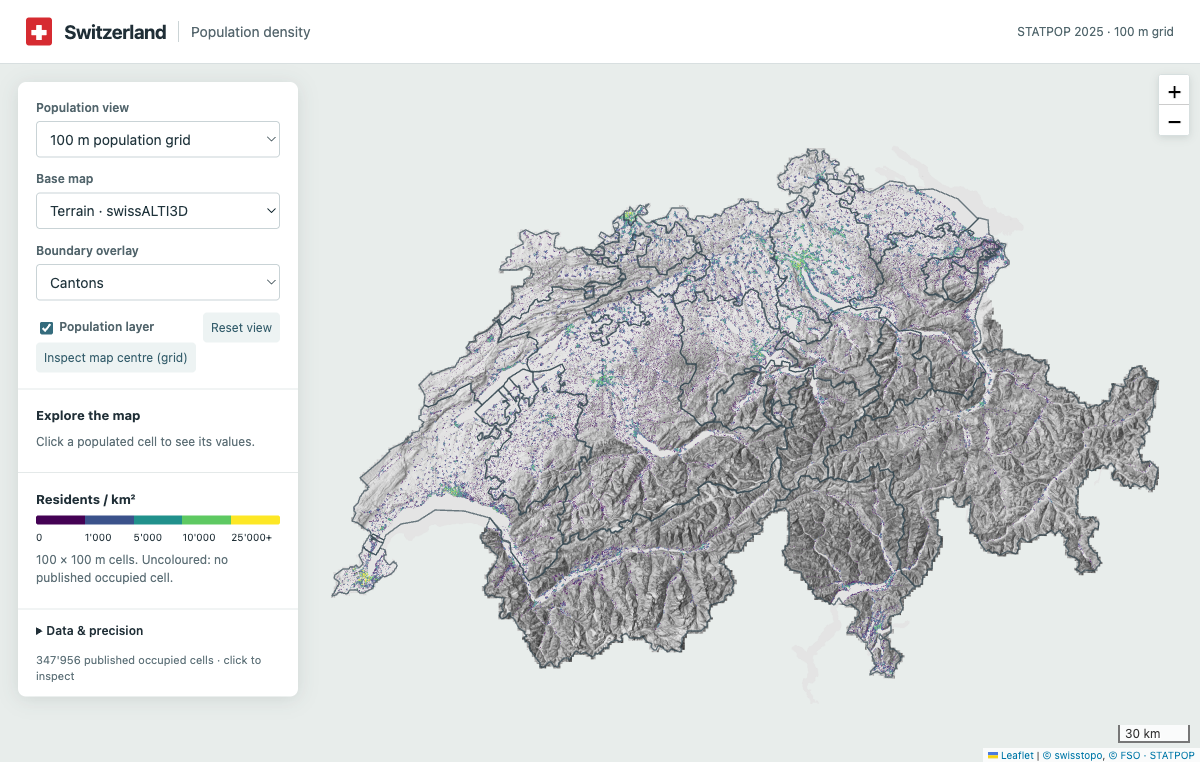
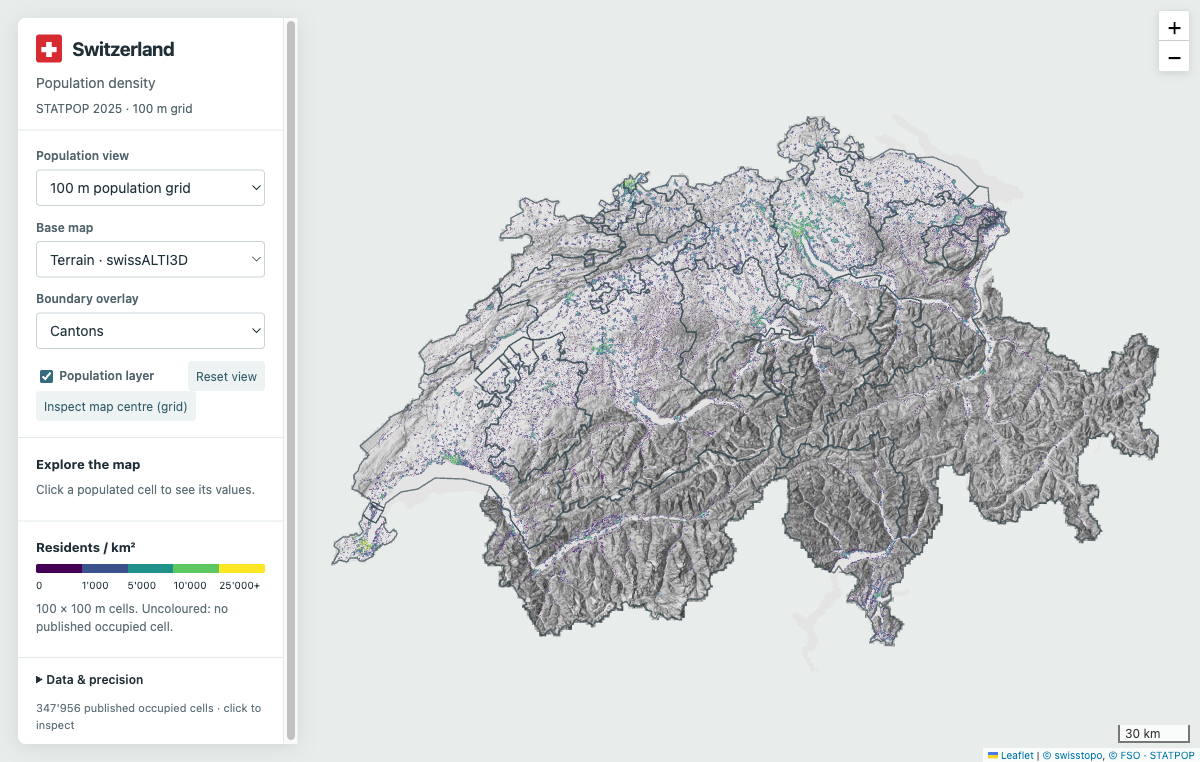
Update Site source

Changed region(s): [[0.2775, 0.1509, 0.9867, 0.9055], [0.0, 0.0, 0.2775, 0.9659], [0.8633, 0.0, 1.0, 0.1207]]

diff --git a/dist/style.css b/dist/style.css
@@ -1,1 +1,1 @@
-*{box-sizing:border-box}body{margin:0;color:#202f37;font:14px/1.5 system-ui,-apple-system,sans-serif}header{height:64px;padding:0 26px;display:flex;align-items:center;justify-content:space-between;border-bottom:1px solid #d8dfe0;background:#fff}header>div{display:flex;align-items:center;gap:12px}strong{font-size:19px;letter-spacing:-.5px}.cross{background:#d62b31;color:#fff;padding:0 5px;font-size:21px;line-height:28px;border-radius:3px}.subtitle{border-left:1px solid #cbd4d6;padding-left:12px;color:#56676e}#vintage{font-size:12px;color:#52676d}main{position:relative;height:calc(100dvh - 64px)}#map{height:100%;background:#e8edeb}aside{position:absolute;top:18px;left:18px;z-index:800;width:280px;max-height:calc(100% - 36px);overflow:auto;box-shadow:0 3px 20px #20333422;background:#fff;border-radius:8px}section{padding:16px 18px;border-bottom:1px solid #e4e9e9}label{display:block;font-size:12px;font-weight:600;color:#52656c;margin-bottom:5px}select{width:100%;padding:8px 9px;border:1px solid #c9d3d6;border-radius:4px;background:#fff;color:#20343c;font:inherit;margin-bottom:12px}.row{display:flex;align-items:center;justify-content:space-between;gap:5px}.row label{margin:0}input{accent-color:#356c7d;vertical-align:middle}button{border:0;background:#edf3f3;color:#355e6c;border-radius:4px;padding:6px 8px;cursor:pointer;font:inherit;font-size:12px}h2{font-size:13px;margin:0 0 7px}p{margin:6px 0;color:#5e7077;font-size:12px}.value{font-size:26px;font-weight:650;letter-spacing:-.8px;color:#243b43}.unit{font-size:12px;font-weight:400;letter-spacing:0}.stats{display:grid;grid-template-columns:1fr 1fr;gap:8px;margin-top:9px}.stats strong{font-size:14px;letter-spacing:0}.stats span{font-size:11px;color:#62737a;display:block}#ramp{height:9px;border-radius:2px;background:linear-gradient(to right,#440154,#3b528b,#21918c,#5ec962,#fde725)}#ticks{display:grid;grid-template-columns:repeat(5,1fr);font-size:10px;margin-top:5px}details{padding:12px 18px}summary{cursor:pointer;font-size:12px;font-weight:600}a{color:#286279}#status{padding:0 18px 12px;font-size:11px;color:#61747b}.leaflet-control-zoom{border:1px solid #d7dfdf!important;box-shadow:0 2px 8px #20333422!important}.leaflet-container{font-family:inherit}.leaflet-control-attribution{font-size:10px!important}.population-canvas{position:absolute;pointer-events:none}.leaflet-popup-content{font-size:12px}select:focus-visible,button:focus-visible,summary:focus-visible{outline:2px solid #32798b;outline-offset:2px}@media(max-width:640px){header{height:58px;padding:0 12px}header>div{gap:7px}strong{font-size:16px}.subtitle{font-size:12px;padding-left:7px}#vintage{display:none}main{height:calc(100dvh - 58px);display:flex;flex-direction:column;overflow:hidden}#map{flex:1 0 55%;height:auto;min-height:55%;width:100%;min-width:0}aside{position:static;flex:0 1 auto;width:100%;min-width:0;min-height:0;max-height:45%;overflow:auto;overflow-wrap:anywhere;border-radius:0}.row{flex-wrap:nowrap;white-space:nowrap}.row>*{flex-shrink:0}section{padding:10px 12px}select{padding:5px;margin-bottom:7px;font-size:12px}.value{font-size:23px}details{padding:9px 12px}#status{padding:0 12px 8px}.legend p{font-size:10px}}
+*{box-sizing:border-box}body{margin:0;color:#202f37;font:14px/1.5 system-ui,-apple-system,sans-serif}html,body{width:100%;height:100%;overflow:hidden}header{padding:16px 18px 12px;border-bottom:1px solid #e4e9e9;background:#fff}header>div{display:flex;align-items:center;gap:10px;flex-wrap:wrap}strong{font-size:19px;letter-spacing:-.5px}.cross{background:#d62b31;color:#fff;padding:0 5px;font-size:21px;line-height:28px;border-radius:3px}.subtitle{flex-basis:100%;color:#56676e}#vintage{display:block;margin-top:6px;font-size:12px;color:#52676d}main{position:absolute;top:0;left:0;width:100vw;height:100vh;height:100dvh;overflow:hidden}#map{position:absolute;top:0;left:0;width:100vw;height:100vh;height:100dvh;background:#e8edeb}aside{position:absolute;top:18px;left:18px;z-index:800;width:280px;max-height:calc(100% - 36px);overflow:auto;box-shadow:0 3px 20px #20333422;background:#fff;border-radius:8px}aside[hidden]{display:none}#panel-toggle{display:none}section{padding:16px 18px;border-bottom:1px solid #e4e9e9}label{display:block;font-size:12px;font-weight:600;color:#52656c;margin-bottom:5px}select{width:100%;padding:8px 9px;border:1px solid #c9d3d6;border-radius:4px;background:#fff;color:#20343c;font:inherit;margin-bottom:12px}.row{display:flex;align-items:center;justify-content:space-between;gap:5px}.row label{margin:0}input{accent-color:#356c7d;vertical-align:middle}button{border:0;background:#edf3f3;color:#355e6c;border-radius:4px;padding:6px 8px;cursor:pointer;font:inherit;font-size:12px}h2{font-size:13px;margin:0 0 7px}p{margin:6px 0;color:#5e7077;font-size:12px}.value{font-size:26px;font-weight:650;letter-spacing:-.8px;color:#243b43}.unit{font-size:12px;font-weight:400;letter-spacing:0}.stats{display:grid;grid-template-columns:1fr 1fr;gap:8px;margin-top:9px}.stats strong{font-size:14px;letter-spacing:0}.stats span{font-size:11px;color:#62737a;display:block}#ramp{height:9px;border-radius:2px;background:linear-gradient(to right,#440154,#3b528b,#21918c,#5ec962,#fde725)}#ticks{display:grid;grid-template-columns:repeat(5,1fr);font-size:10px;margin-top:5px}details{padding:12px 18px}summary{cursor:pointer;font-size:12px;font-weight:600}a{color:#286279}#status{padding:0 18px 12px;font-size:11px;color:#61747b}.leaflet-control-zoom{border:1px solid #d7dfdf!important;box-shadow:0 2px 8px #20333422!important}.leaflet-container{font-family:inherit}.leaflet-control-attribution{font-size:10px!important}.population-canvas{position:absolute;pointer-events:none}.leaflet-popup-content{font-size:12px}select:focus-visible,button:focus-visible,summary:focus-visible{outline:2px solid #32798b;outline-offset:2px}@media(max-width:640px){#panel-toggle{display:block;position:absolute;top:10px;left:10px;z-index:800;box-shadow:0 2px 8px #20333422}aside{top:52px;left:10px;width:min(280px,calc(100vw - 60px));max-height:calc(100vh - 62px);max-height:calc(100dvh - 62px);overflow:auto;overflow-wrap:anywhere}header{padding:12px}header>div{gap:7px}strong{font-size:16px}.subtitle{font-size:12px}.row{flex-wrap:wrap}section{padding:10px 12px}select{padding:5px;margin-bottom:7px;font-size:12px}.value{font-size:23px}details{padding:9px 12px}#status{padding:0 12px 8px}.legend p{font-size:10px}}

diff --git a/scripts/browser_qa.js b/scripts/browser_qa.js
@@ -3,20 +3,29 @@ async (page) => {
  const results = [];
  await page.waitForFunction(() => typeof worldCells !== 'undefined' && worldCells && document.getElementById('status').textContent.includes('published occupied cells'));
  async function clickMapCentre() {
+  const toggle=page.locator('#panel-toggle');
+  if(await toggle.isVisible() && await toggle.getAttribute('aria-expanded')==='true') await toggle.click();
   const p = await page.evaluate(() => {const b = document.getElementById('map').getBoundingClientRect(); return {x:b.x+b.width/2,y:b.y+b.height/2};});
   await page.mouse.click(p.x,p.y);
  }
- for (const size of [{width:1200,height:762},{width:390,height:844},{width:320,height:568},{width:640,height:360}]) {
+ for (const size of [{width:1200,height:762},{width:1920,height:1080},{width:390,height:844},{width:320,height:568},{width:640,height:360}]) {
   await page.setViewportSize(size);
+  await page.waitForFunction(()=>map.getSize().x===innerWidth && map.getSize().y===innerHeight);
   await page.locator('#reset').click();
-  await page.waitForFunction(() => !map._animatingZoom);
+  await page.waitForFunction(() => map.getZoom()===map.getBoundsZoom(L.latLngBounds([[45.82,5.96],[47.81,10.49]]),false,L.point(innerWidth>640?330:40,40)) && !map._animatingZoom);
   const good = await page.evaluate(() => {
    const m = document.getElementById('map').getBoundingClientRect(),a = document.querySelector('aside').getBoundingClientRect();
    const points = [[45.82,5.96],[47.81,10.49]].map(ll => map.latLngToContainerPoint(ll));
-   return document.documentElement.scrollWidth <= innerWidth && points.every(p => p.x >= 0 && p.x <= m.width && p.y >= 0 && p.y <= m.height) && (innerWidth > 640 || a.top >= m.bottom - 1);
+   return m.x===0 && m.y===0 && m.width===innerWidth && m.height===innerHeight && map.getSize().x===innerWidth && map.getSize().y===innerHeight && Math.abs(gridLayer.canvas.width/devicePixelRatio-innerWidth)<1 && Math.abs(gridLayer.canvas.height/devicePixelRatio-innerHeight)<1 && document.documentElement.scrollWidth <= innerWidth && document.documentElement.scrollHeight <= innerHeight && getComputedStyle(document.querySelector('aside')).position==='absolute' && a.x>=0 && a.x<=20 && a.right<=innerWidth && a.bottom<=innerHeight && points.every(p => p.x >= 0 && p.x <= m.width && p.y >= 0 && p.y <= m.height);
   });
   if (!good) throw Error('Map fit/layout failed: '+JSON.stringify(size));
-  results.push({viewport:size,fit:true});
+  results.push({viewport:size,fit:true,fullViewport:true,leftFloating:true});
+  if(size.width<=640){
+   await page.locator('#panel-toggle').click();
+   if(await page.locator('#controls-panel').isVisible())throw Error('Panel did not hide');
+   await page.locator('#panel-toggle').click();
+   if(!await page.locator('#controls-panel').isVisible())throw Error('Panel did not return');
+  }
  }
  await page.setViewportSize({width:1200,height:762});
  await page.locator('#level').selectOption('grid');
@@ -99,6 +108,10 @@ async (page) => {
  await clickMapCentre();
  const revealed = await page.evaluate(() => {const s=document.getElementById('selection').getBoundingClientRect(),a=document.querySelector('aside').getBoundingClientRect();return s.top >= a.top-1 && s.bottom <= a.bottom+1;});
  if (!revealed) throw Error('Mobile selected values hidden');
- await page.setViewportSize({width:1200,height:762});await page.locator('#boundaries').selectOption('canton');await page.locator('#reset').click();
+ await page.locator('#panel-toggle').click();
+ await page.setViewportSize({width:1200,height:762});
+ await page.waitForFunction(()=>!document.getElementById('controls-panel').hidden);
+ if(await page.locator('#panel-toggle').isVisible())throw Error('Mobile toggle visible on desktop');
+ await page.locator('#boundaries').selectOption('canton');await page.locator('#reset').click();
  return {results,layerCombinations:combinations,bases:3,pointerDrag:true,keyboardPan:true,zoomButtons:true,centreInspector:true,mobileSelectionRevealed:true,tileStatus:statuses};
 }

diff --git a/dist/index.html b/dist/index.html
@@ -1,7 +1,8 @@
 <!doctype html>
-<html lang="en"><head><meta charset="utf-8"><meta name="viewport" content="width=device-width,initial-scale=1"><link rel="icon" href="data:,"><title>Switzerland · Population density</title><link rel="stylesheet" href="vendor/leaflet.css"><link rel="stylesheet" href="style.css?v=881835087f96"></head>
-<body><header><div><span class="cross">✚</span><strong>Switzerland</strong><span class="subtitle">Population density</span></div><span id="vintage">STATPOP · loading</span></header>
-<main><div id="map" role="region" aria-label="Interactive population density map of Switzerland"></div><aside>
+<html lang="en"><head><meta charset="utf-8"><meta name="viewport" content="width=device-width,initial-scale=1"><link rel="icon" href="data:,"><title>Switzerland · Population density</title><link rel="stylesheet" href="vendor/leaflet.css"><link rel="stylesheet" href="style.css?v=6f51a1fc3744"></head>
+<body>
+<main><div id="map" role="region" aria-label="Interactive population density map of Switzerland"></div><button id="panel-toggle" aria-controls="controls-panel" aria-expanded="true">Hide controls</button><aside id="controls-panel">
+<header><div><span class="cross">✚</span><strong>Switzerland</strong><span class="subtitle">Population density</span></div><span id="vintage">STATPOP · loading</span></header>
 <section class="controls"><label for="level">Population view</label><select id="level"><option value="grid">100 m population grid</option><option value="municipality">Municipalities</option><option value="district">Districts</option><option value="canton">Cantons</option></select>
 <label for="basemap">Base map</label><select id="basemap"><option value="terrain">Terrain · swissALTI3D</option><option value="topo">Topographic map</option><option value="aerial">Aerial imagery</option></select>
 <label for="boundaries">Boundary overlay</label><select id="boundaries"><option value="canton">Cantons</option><option value="district">Districts</option><option value="municipality">Municipalities</option><option value="none">None</option></select>
@@ -10,4 +11,4 @@
 <section class="legend"><h2>Residents / km²</h2><div id="ramp"></div><div id="ticks"></div><p id="legend-note">100 × 100 m cells. Uncoloured: no published occupied cell.</p></section>
 <details><summary>Data & precision</summary><p id="source-note">Loading official data…</p><p>Public hectare counts of 1–3 are grouped as 3. These cells are shown as ranges, not exact counts. Most municipality totals are official; other regional grid sums are estimates, not official administrative totals.</p><p><a href="https://statistik.admin.ch/en/asset/36856441" target="_blank" rel="noopener">FSO · STATPOP 2025</a> · <a href="https://www.swisstopo.admin.ch/en/landscape-model-swissboundaries3d" target="_blank" rel="noopener">swisstopo · boundaries</a> · <a href="data/metadata.json" target="_blank">Source metadata</a></p></details>
 <div id="status" role="status">Loading population data…</div></aside></main>
-<script src="vendor/leaflet.js"></script><script src="vendor/proj4.js"></script><script src="app.js?v=a412e729709c"></script></body></html>
+<script src="vendor/leaflet.js"></script><script src="vendor/proj4.js"></script><script src="app.js?v=c5b82d466e02"></script></body></html>

diff --git a/dist/app.js b/dist/app.js
@@ -35,7 +35,14 @@ const GridCanvas=L.Layer.extend({
  }
 });
 const gridLayer=new GridCanvas();
-function revealSelection(){if(innerWidth<=640)$('selection').scrollIntoView({block:'nearest'});}
+function setPanelVisible(visible){
+ $('controls-panel').hidden=!visible;
+ $('panel-toggle').setAttribute('aria-expanded',String(visible));
+ $('panel-toggle').textContent=visible?'Hide controls':'Show controls';
+}
+$('panel-toggle').onclick=()=>setPanelVisible($('controls-panel').hidden);
+window.addEventListener('resize',()=>{if(innerWidth>640)setPanelVisible(true);});
+function revealSelection(){if(innerWidth<=640){setPanelVisible(true);$('selection').scrollIntoView({block:'nearest'});}}
 function selectGrid(latlng){if($('level').value!=='grid'||!$('population').checked)return;const p=swissTransform.inverse([latlng.lng,latlng.lat]),bx=Math.floor(p[0]/100),by=Math.floor(p[1]/100);let r;
  for(let dx=-1;dx<=1;dx++)for(let dy=-1;dy<=1;dy++){const candidates=gridIndex.get((bx+dx)+','+(by+dy))||[];for(const candidate of candidates){if(p[0]>=candidate[0]&&p[0]<candidate[0]+100&&p[1]>=candidate[1]&&p[1]<candidate[1]+100)r=candidate;}}
  if(selectedCell)map.removeLayer(selectedCell);if(!r){$('selection').innerHTML='<h2>No published occupied cell</h2><p>This location has no occupied cell in the published grid, or lies outside coverage.</p>';revealSelection();return;}

diff --git a/README.md b/README.md
@@ -12,6 +12,6 @@ See `DATA.md` for provenance, privacy, regional estimates and regeneration.
 
 ## Verification
 
-`node scripts/test_app.cjs` checks data integration and control logic with mocked Leaflet (not browser rendering). Official-source and data validation checks are documented in `DATA.md`. Playwright MCP Chrome QA passed on 9 November 2026: real grid/region clicks, privacy and collective-coordinate warnings, all 32 level/boundary/visibility combinations, all three base maps, zoom, pointer and keyboard pan, reset, source details, and four viewport sizes. `scripts/browser_qa.js` can be run through Playwright MCP using its browser_run_code_unsafe filename option after opening the app. Tile-warning recovery is tested by injecting Leaflet tile events, not by simulating a full network outage. Final screenshots are in `qa/`.
+`node scripts/test_app.cjs` checks data integration and control logic with mocked Leaflet (not browser rendering). Official-source and data validation checks are documented in `DATA.md`. Playwright MCP Chrome QA passed on 9 November 2026: real grid/region clicks, privacy and collective-coordinate warnings, all 32 level/boundary/visibility combinations, all three base maps, zoom, pointer and keyboard pan, reset, source details, and five viewport sizes. The map fills the viewport with a floating left panel at every size; on small screens the panel can be hidden and reopens when a value is selected. Full-viewport Leaflet and grid-canvas resizing are checked. `scripts/browser_qa.js` can be run through Playwright MCP using its browser_run_code_unsafe filename option after opening the app. Tile-warning recovery is tested by injecting Leaflet tile events, not by simulating a full network outage. Final screenshots are in `qa/`.
 
 CSS and application script URLs contain content hashes to avoid stale cached assets after publication. Refresh those hashes in `dist/index.html` if either file changes.
